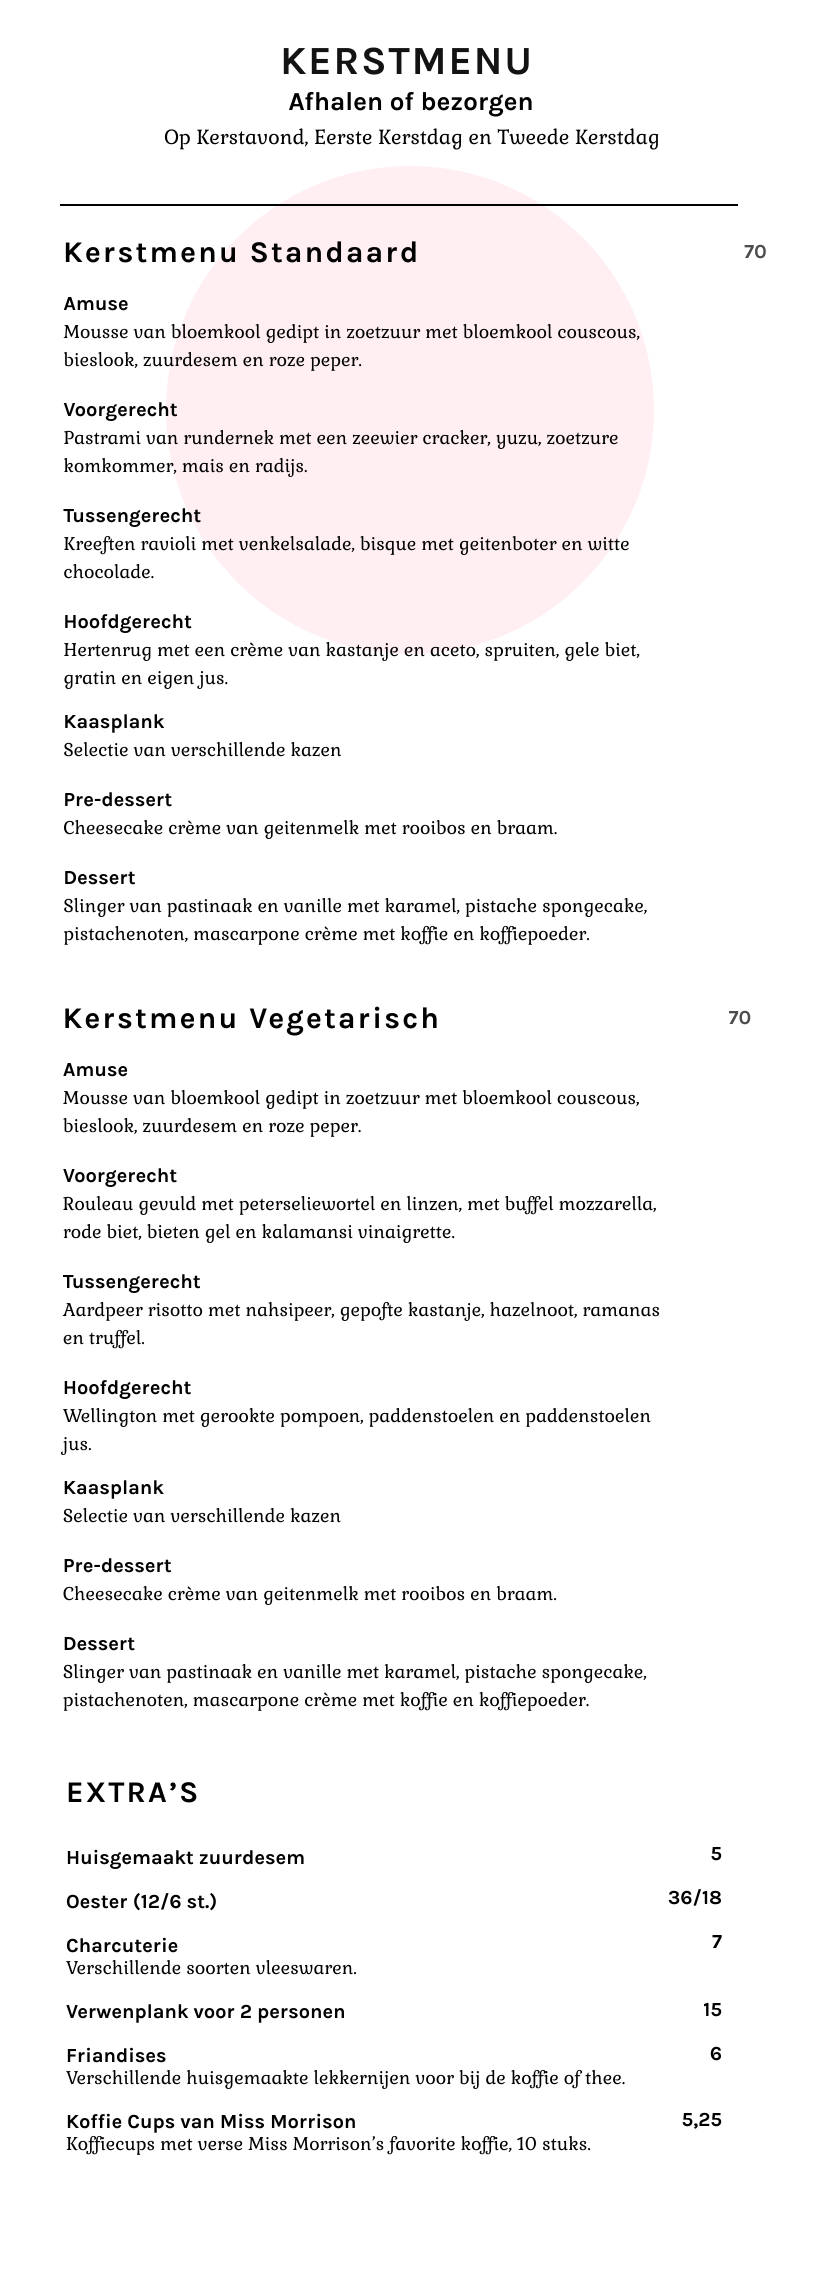
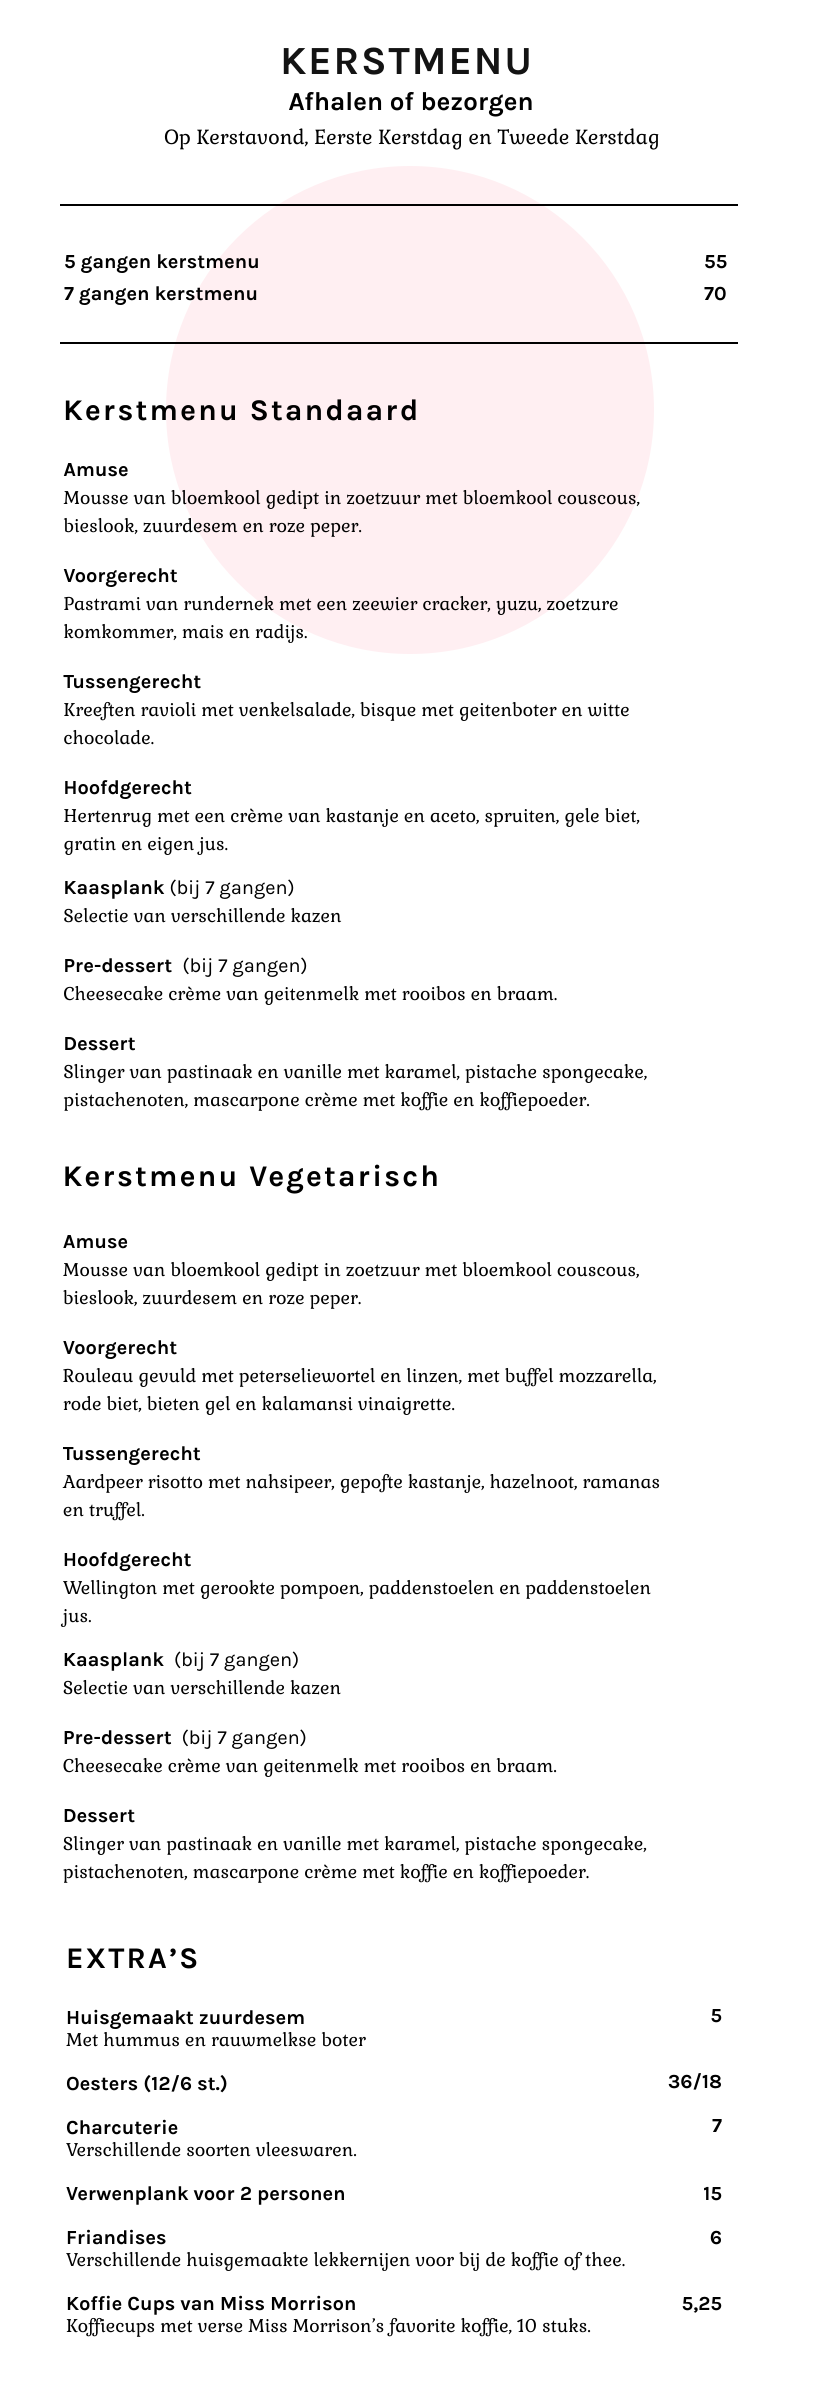
added 5 gangen to kerstmenu

diff --git a/src/client/bestel-kerstmenu/index.html b/src/client/bestel-kerstmenu/index.html
@@ -7,7 +7,7 @@
     <meta content="IE=edge" http-equiv="X-UA-Compatible">
     <title>Menu bestellen | Restaurant De Centrale Delft</title>
     <meta name="description" content="Bezorgen en afhalen van ons vertrouwde Kerstmenu in Delft, Den Hoorn, Delfgauw of Pijnacker. 
-    Zo geniet je thuis van een heerlijk 4 gangen diner. Eet je liever vegetarisch? Je kunt ook een vega menu bestellen.">
+    Zo geniet je thuis van een heerlijk 7 gangen kerstdiner. Eet je liever vegetarisch? Je kunt ook een vega kerstmenu bestellen.">
 
     <!-- favicon -->
     <link rel="shortcut icon" type="image/x-icon" href="/img/favicon.ico">
@@ -91,7 +91,7 @@
     </div>
     
     <div class="container-s page-intro-text text-center reserveren-intro">
-      <p><br>Bestel ons kerstmenu van 7 gangen voor thuis. Hoe? Het werkt heel makkelijk! Je kiest voor een standaard of vegetarisch menu. Je amuse, voorgerecht, 
+      <p><br>Bestel ons kerstmenu van 5 of 7 gangen voor thuis. Hoe? Het werkt heel makkelijk! Je kiest voor een standaard of vegetarisch menu. Je amuse, voorgerecht, 
         en nagrechten krijg je zoals je van ons gewend bent. Alleen het tussengerecht en hoofdgerecht geef je 
         thuis de finishing touch door onze eenvoudige instructies te volgen. Een kind kan de was doen! 
         Wil je de complete Centrale ervaring? Kies dan voor de bijpassende wijnen, oesters vooraf, een verwenplank of koffie van Miss Morrison met friandises!<br>
@@ -102,11 +102,11 @@
         <button class="btn-header" onclick="parent.location='/kerstmenu/'">Bekijk kerstmenu</button>
     </div>
     <br>
-    <!--<div class="container-s">
+    <div class="container-s">
       <div class="container-black">
-        <p>Bestel voor 22.00 uur je diner voor de volgende dag! </p> 
+        <p>Bestellen kan tot en met 22 december.</p> 
       </div>
-    </div>-->
+    </div>
 <div class="container-s">
   <form id="contact-form" method="post" action="/.netlify/functions/send-mail-kerstmenu" autocomplete="off">
     <div class="row">
@@ -125,6 +125,18 @@
       <label for="7_gangen_vega" class="col-sm-6">7-gangen vega (70,00 p.p.)</label>
       <div class="col-sm-6">
           <input type="number" class="form-control small-field" name="menuVega7" id="7_gangen_vega">
+      </div>
+    </div>
+    <div class="form-group row">
+      <label for="5_gangen_standaard" class="col-sm-6">5-gangen standaard (55,00 p.p.)</label>
+      <div class="col-sm-6">
+          <input type="number" class="form-control small-field" name="menuStandaard5" id="5_gangen_standaard">
+      </div>
+    </div>
+    <div class="form-group row">
+      <label for="5_gangen_vega" class="col-sm-6">5-gangen vega (55,00 p.p.)</label>
+      <div class="col-sm-6">
+          <input type="number" class="form-control small-field" name="menuVega5" id="5_gangen_vega">
       </div>
     </div>
     <hr>
@@ -162,7 +174,7 @@
         </div>
       </div>
     <div class="form-group row">
-      <label for="brood" class="col-sm-6">Huisgemaakt Zuurdesem met smeersels (5,00 per stuk)</label>
+      <label for="brood" class="col-sm-6">Huisgemaakt Zuurdesem met hummus en rauwmelkse boter (5,00 per stuk)</label>
       <div class="col-sm-6">
           <input type="number" class="form-control small-field" name="brood" id="brood">
       </div>
@@ -194,15 +206,15 @@
       </div>
     </div>
     <div class="form-group row">
-      <label for="koffie" class="col-sm-6">Miss Morrison Koffie Cups (doosje van 10 stuks voor 5,25)</label>
-      <div class="col-sm-6">
-          <input type="number" class="form-control small-field" name="koffie" id="koffie">
-      </div>
-    </div>
-    <div class="form-group row">
       <label for="friandises" class="col-sm-6">Friandises (6,00 p.p.), 4 kleine lekkernijen voor bij de koffie</label>
       <div class="col-sm-6">
           <input type="number" class="form-control small-field" name="friandises" id="friandises">
+      </div>
+    </div>
+    <div class="form-group row">
+      <label for="koffie" class="col-sm-6">Miss Morrison Koffie Cups (doosje van 10 stuks voor 5,25)</label>
+      <div class="col-sm-6">
+          <input type="number" class="form-control small-field" name="koffie" id="koffie">
       </div>
     </div>
     <hr>

diff --git a/src/server/functions/send-mail-kerstmenu.js b/src/server/functions/send-mail-kerstmenu.js
@@ -28,6 +28,8 @@ exports.handler = function (event, context, callback) {
 	const postData = queryString.parse(event.body)
 	const menuStandaard7 = postData["menuStandaard7"]
 	const menuVega7 = postData["menuVega7"]
+	const menuStandaard5 = postData["menuStandaard5"]
+	const menuVega5 = postData["menuVega5"]
 	const oesters = postData.oesters
 	const verwenplank = postData.verwenplank
 	const brood = postData.brood
@@ -71,10 +73,12 @@ exports.handler = function (event, context, callback) {
 		"Subject": `Kerstmenu De Centrale voor ${date} | ${methode} | ${time}`,
 		"TextBody": `
 		Wij willen graag: 
-		kerstmenu standaard: ${menuStandaard7} x
-		kerstmenu vega: ${menuVega7} x\n
+		kerstmenu 7 gangen standaard: ${menuStandaard7} x
+		kerstmenu 7 gangen vega: ${menuVega7} x
+		kerstmenu 5 gangen standaard: ${menuStandaard5} x
+		kerstmenu 5 gangen vega: ${menuVega5} x \n
 		Extra:
-		Oester: ${oesters}
+		Oesters: ${oesters}
 		Brood: ${brood} x
 		Charcuterie: ${char} x
 		Verwenplank: ${verwenplank} personen
